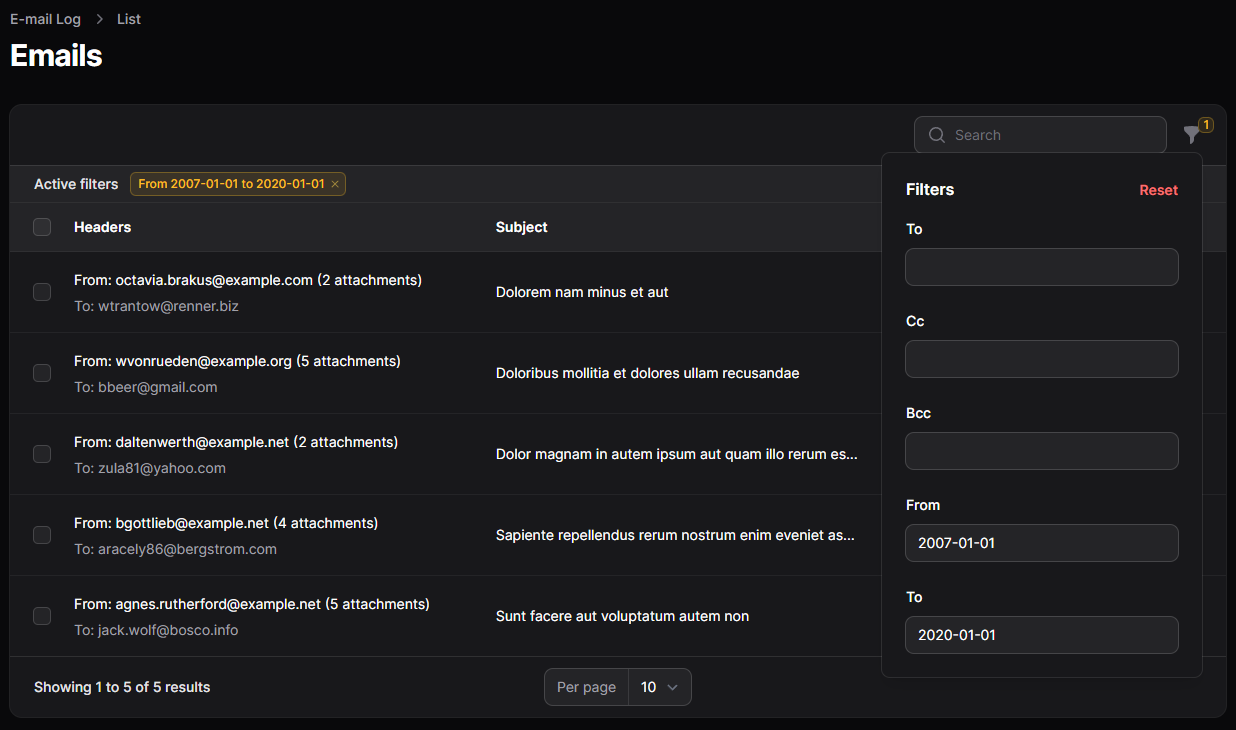
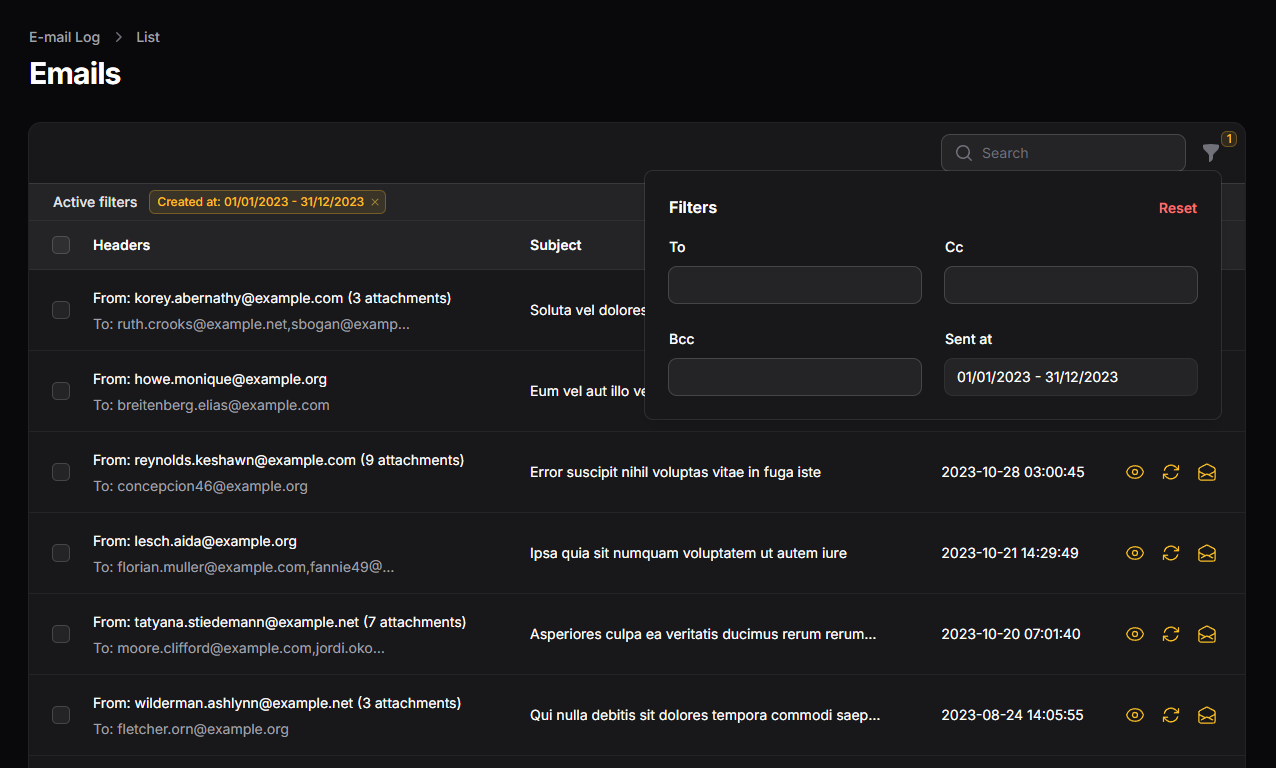
Fixed date range filter conversion. Updated screnshots. Minor fixes.

diff --git a/src/Filament/Resources/EmailResource.php b/src/Filament/Resources/EmailResource.php
@@ -307,13 +307,13 @@ class EmailResource extends Resource
                             ->when(
                                 $data['created_at'],
                                 function (Builder $query, $value): Builder {
-                                    $format = config('filament-email.resource.filters.created_at.date_format');
                                     [$start, $end] = explode(' - ', $value);
-
+                                    $start = str_replace('/', '-', $start);
+                                    $end = str_replace('/', '-', $end);
                                     return $query->whereBetween('created_at', [
-                                        Carbon::createFromFormat($format, $start)
+                                        Carbon::createFromTimestamp(strtotime($start))
                                             ->format('Y-m-d'),
-                                        Carbon::createFromFormat($format, $end)
+                                        Carbon::createFromTimestamp(strtotime($end))
                                             ->format('Y-m-d'),
                                     ]);
                                 }

diff --git a/config/filament-email.php b/config/filament-email.php
@@ -14,11 +14,6 @@ return [
         'default_sort_column' => 'created_at',
         'default_sort_direction' => 'desc',
         'datetime_format' => 'Y-m-d H:i:s',
-        'filters' => [
-            'created_at' => [
-                'date_format' => 'Y-m-d',
-            ],
-        ],
         'table_search_fields' => [
             'subject',
             'from',

diff --git a/README.md b/README.md
@@ -118,23 +118,23 @@ composer test
 
 ### E-mail list
 
-![](https://raw.githubusercontent.com/RickDBCN/filament-email/main/screenshots/table.png)
+<img src="https://raw.githubusercontent.com/RickDBCN/filament-email/main/screenshots/table.png" style="border-radius:2%"/>
 
 ### Advanced filters
 
-![](https://raw.githubusercontent.com/RickDBCN/filament-email/main/screenshots/filters.png)
+<img src="https://raw.githubusercontent.com/RickDBCN/filament-email/main/screenshots/filters.png" style="border-radius:2%"/>
 
 ### Resend e-mail
 
-![](https://raw.githubusercontent.com/RickDBCN/filament-email/main/screenshots/resend.png)
+<img src="https://raw.githubusercontent.com/RickDBCN/filament-email/main/screenshots/resend.png" style="border-radius:2%"/>
 
 ### Update addresses and resend e-mail
 
-![](https://raw.githubusercontent.com/RickDBCN/filament-email/main/screenshots/update-and-resend.png)
+<img src="https://raw.githubusercontent.com/RickDBCN/filament-email/main/screenshots/update-and-resend.png" style="border-radius:2%"/>
 
 ### E-mail view with attachments
 
-![](https://raw.githubusercontent.com/RickDBCN/filament-email/main/screenshots/view.png)
+<img src="https://raw.githubusercontent.com/RickDBCN/filament-email/main/screenshots/view.png" style="border-radius:2%"/>
 
 ## Credits
 
